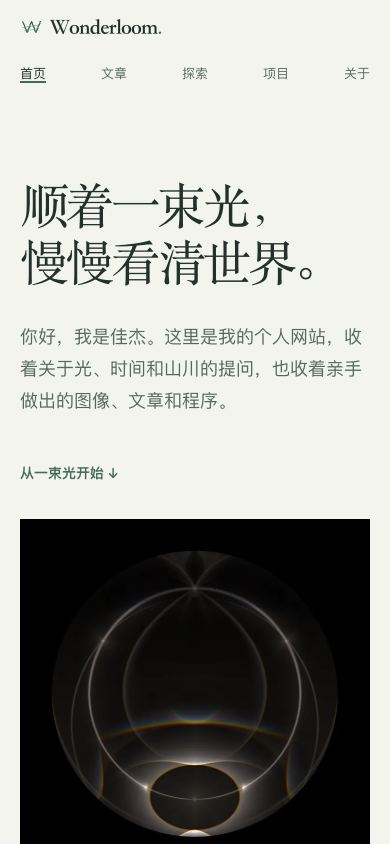
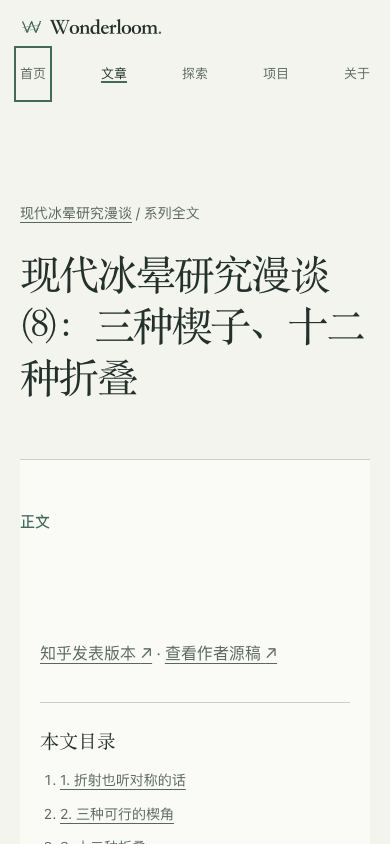
fix: capture visible keyboard focus and freeze legacy styles

diff --git a/src/styles/tokens.css b/src/styles/tokens.css
@@ -16,58 +16,3 @@
   --reading-width: 720px;
   --gutter: clamp(20px, 5vw, 76px);
 }
-
-/* A · 研究手记。按文字角色与空间关系命名，组件不另设字号。 */
-.notebook {
-  --nb-page-size: 48px;
-  --nb-section-size: 28px;
-  --nb-entry-size: 22px;
-  --nb-body-size: 16px;
-  --nb-meta-size: 13px;
-  --nb-page-leading: 1.5;
-  --nb-title-leading: 1.6;
-  --nb-body-leading: 1.9;
-  --nb-meta-leading: 1.75;
-  --nb-weight: 400;
-  --nb-label-weight: 500;
-  --nb-width: 1120px;
-  --nb-margin: 48px;
-  --nb-rail: 176px;
-  --nb-gutter: 48px;
-  --nb-space-1: 8px;
-  --nb-space-2: 16px;
-  --nb-space-3: 24px;
-  --nb-space-4: 32px;
-  --nb-space-6: 48px;
-  --nb-space-8: 64px;
-  --nb-space-12: 96px;
-  --nb-figure-inset: 24px;
-  --nb-rule: 1px solid var(--line);
-  --nb-focus: 2px solid var(--accent);
-  --nb-thread: #9d9f90;
-  --nb-node-size: 12px;
-  --nb-track-offset: 24px;
-  --nb-surface-bleed: 24px;
-  --nb-motion-fast: 180ms;
-  --nb-motion-read: 240ms;
-  --nb-motion-intro: 650ms;
-  --nb-weave-warp: #425066;
-  --nb-weave-weft: #b68d24;
-  --nb-ease: cubic-bezier(.2, .7, .3, 1);
-}
-@media (max-width: 1100px) {
-  .notebook { --nb-rail: 144px; --nb-gutter: 32px; --nb-margin: 32px; }
-}
-@media (max-width: 760px) {
-  .notebook {
-    --nb-page-size: 28px;
-    --nb-section-size: 24px;
-    --nb-entry-size: 20px;
-    --nb-margin: 24px;
-    --nb-space-8: 48px;
-    --nb-space-12: 64px;
-    --nb-figure-inset: 16px;
-    --nb-track-offset: 12px;
-    --nb-surface-bleed: 12px;
-  }
-}

diff --git a/src/styles/site-base.css b/src/styles/site-base.css
@@ -31,7 +31,7 @@ img { display: block; max-width: 100%; height: auto; }
 @media (max-width: 680px) {
   :root { --gutter: 20px; --site-header-height: auto; }
   .site-header { display: block; padding-block: 16px 10px; }
-  .site-nav { justify-content: space-between; gap: 8px; margin-top: 14px; overflow-x: auto; }
+  .site-nav { justify-content: space-between; gap: 8px; margin-top: 14px; }
   .site-nav a { display: inline-flex; flex: 0 0 auto; align-items: center; min-height: 44px; font-size: 13px; }
   .site-footer { display: grid; padding-bottom: 28px; }
   .footer-links { justify-content: start; }

diff --git a/src/styles/directions-legacy-notebook.css b/src/styles/directions-legacy-notebook.css
@@ -1,4 +1,4 @@
-/* A · 研究手记。尺寸只在 tokens.css 定义；以下先定义文字角色，再定义版式。 */
+/* A · 研究手记。尺寸只在 directions-legacy-tokens.css 定义；以下先定义文字角色，再定义版式。 */
 .notebook {
   font: var(--nb-weight) var(--nb-body-size)/var(--nb-body-leading) var(--sans);
 }

diff --git a/src/styles/directions-legacy.css b/src/styles/directions-legacy.css
@@ -3,5 +3,5 @@
  * 独立视觉尺子，只有明确的历史样张修复才能改动其复制的 token/Notebook 样式。
  */
 @import './directions-legacy-tokens.css';
-@import './research-editions.css';
+@import './directions-legacy-research-editions.css';
 @import './directions-legacy-notebook.css';

diff --git a/docs/verification/light-led-redesign/README.md b/docs/verification/light-led-redesign/README.md
@@ -4,7 +4,7 @@
 
 - 基线提交：8365dbcbcdeb1522ffa0656132a16285ee966da1。基线截图、Inspector 与冷缓存资源原始记录在 baseline/。
 - 正式站点输出 46 页；其中包含文章三种状态、11 篇冰晕作者全文、66 个同步资源、主题、人工阅读路径与显式关系。npm run test:site 继续检查这些内容边界。
-- /directions/ 是 noindex 历史样张。ResearchLayout 只加载冻结的 directions-legacy.css；首页的旧文案由 legacy-home-copy.ts 冻结，文章与探索页通过 legacySample 保留旧标题栏和轨迹 DOM。baseline/legacy/ 是在 8365dbc 主分支构建并预览后，对首页、文章、探索三张旧样张按 1440/768/390 截取的 9 张图和 token/标题记录。final/browser-matrix/ 中对应 9 张图用于同视口比较。
+- /directions/ 是 noindex 历史样张。ResearchLayout 只加载冻结的 directions-legacy.css，其三个样式 import 都位于 legacy 命名空间；首页的旧文案由 legacy-home-copy.ts 冻结，文章与探索页通过 legacySample 保留旧标题栏和轨迹 DOM。baseline/legacy/ 是在 8365dbc 主分支构建并预览后，对首页、文章、探索三张旧样张按 1440/768/390 截取的 9 张图和 token/标题记录。final/browser-matrix/ 中对应 9 张图用于同视口比较。
 
 ## 内容与图像取证
 
@@ -38,11 +38,11 @@
 
 运行 node docs/verification/light-led-redesign/verify-browser.mjs http://127.0.0.1:4323 使用本机 Chrome 和 design-taste-frontend 的 CDP 客户端，对 54 个页面/视口组合留存截图与原始 DOM 记录（见 final/browser-matrix/report.json）。范围包含首页 1440×900、1024×768、768×1024、390×844、320×844、320×640；文章索引、系列、纯导读、纯全文、导读加全文、含 13 个公式和 6 张表的长文、探索、主题、路径、项目、关于、真实 404 全部覆盖 1440/768/390；历史首页、文章、探索旧样张也覆盖这三档。结果：每页一个 h1、无坏图、无页面横向溢出、无控制台异常；手机导航目标至少 44px；长文公式和表格保持 overflow-x: auto。
 
-45 个正式模板/视口组合均以真实 Tab 依次检查跳过链接、站点标识、首页导航的焦点可见性及视口内位置，再以 Enter 验证导航；首页与长文各保存一张手机键盘焦点截图。另从页面初始状态逐次 Tab 到内容区，按 Enter 并检查结果：首页阅读路径进入目标页、探索选择按钮更新 `aria-pressed`/对应 details/播报状态、禁 JS 下同页 summary 原生展开、长文目录锚点定位、前后篇分页进入相应文章。归档记录含每条路径实际 Tab 次数、焦点和目标状态。另存首页禁用 JS 与 reduced-motion 截图：四站及 18 个链接仍可用，404 HTTP 状态为 404。
+45 个正式模板/视口组合均以真实 Tab 依次检查跳过链接、站点标识、首页导航的焦点可见性及视口内位置，再以 Enter 验证导航；首页与长文的手机键盘截图在第三次 Tab 后、Enter 跳转前捕获，能看到完整的导航焦点框。另从页面初始状态逐次 Tab 到内容区，按 Enter 并检查结果：首页阅读路径进入目标页、探索选择按钮更新 `aria-pressed`/对应 details/播报状态、禁 JS 下同页 summary 原生展开、长文目录锚点定位、前后篇分页进入相应文章。归档记录含每条路径实际 Tab 次数、焦点和目标状态。另存首页禁用 JS 与 reduced-motion 截图：四站及 18 个链接仍可用，404 HTTP 状态为 404。
 
 历史隔离断言检查 ResearchLayout 的唯一 legacy import、冻结入口的三个 import、浏览器实际加载的 ResearchLayout 样式表，以及各视口的 body class、`--paper`、`--ink`、`--nb-page-size` 和 h1 与 8365dbc 基线一致。九组同视口截图已逐张目视比较，页面文案和版式一致；织纹本身有原有动画，不把截图像素一致当作冻结条件。基线运行需要从 8365dbc 启动预览，并预先同步相同的作者文章素材；命令见 capture-legacy-baseline.mjs。
 
-首页冷缓存首屏请求由 final/browser-matrix/report.json 原样记录：转移 82,198 B，没有重复 URL；基线 55,909 B，差额 26,289 B，用于把真实冰晕图放到首屏。浏览器脚本将超过 1.5 MB 或出现重复资源 URL 设为失败条件。此为本地预览相同环境的相对测量，不代表公网传输量。
+首页冷缓存首屏请求由 final/browser-matrix/report.json 原样记录：转移 81,864 B，没有重复 URL；基线 55,909 B，差额 25,955 B，用于把真实冰晕图放到首屏。浏览器脚本将超过 1.5 MB 或出现重复资源 URL 设为失败条件。此为本地预览相同环境的相对测量，不代表公网传输量。
 
 首页 Inspector 最终报告与截图在 final/home-inspection/，覆盖 1440/768/390，除 still-page 外为 0 FAIL。still-page 由 --allow still-page 明示豁免：本次遵从作者的自然滚动、无自动装饰动效要求。其余提示是纸面色调、系统中文宋体不作为 webfont 加载、字号层级数量及没有视频；不以这些代理量替代作者对构图与气质的判断。320px 的真实高度截图由浏览器矩阵补足，标题保持两行。
 
